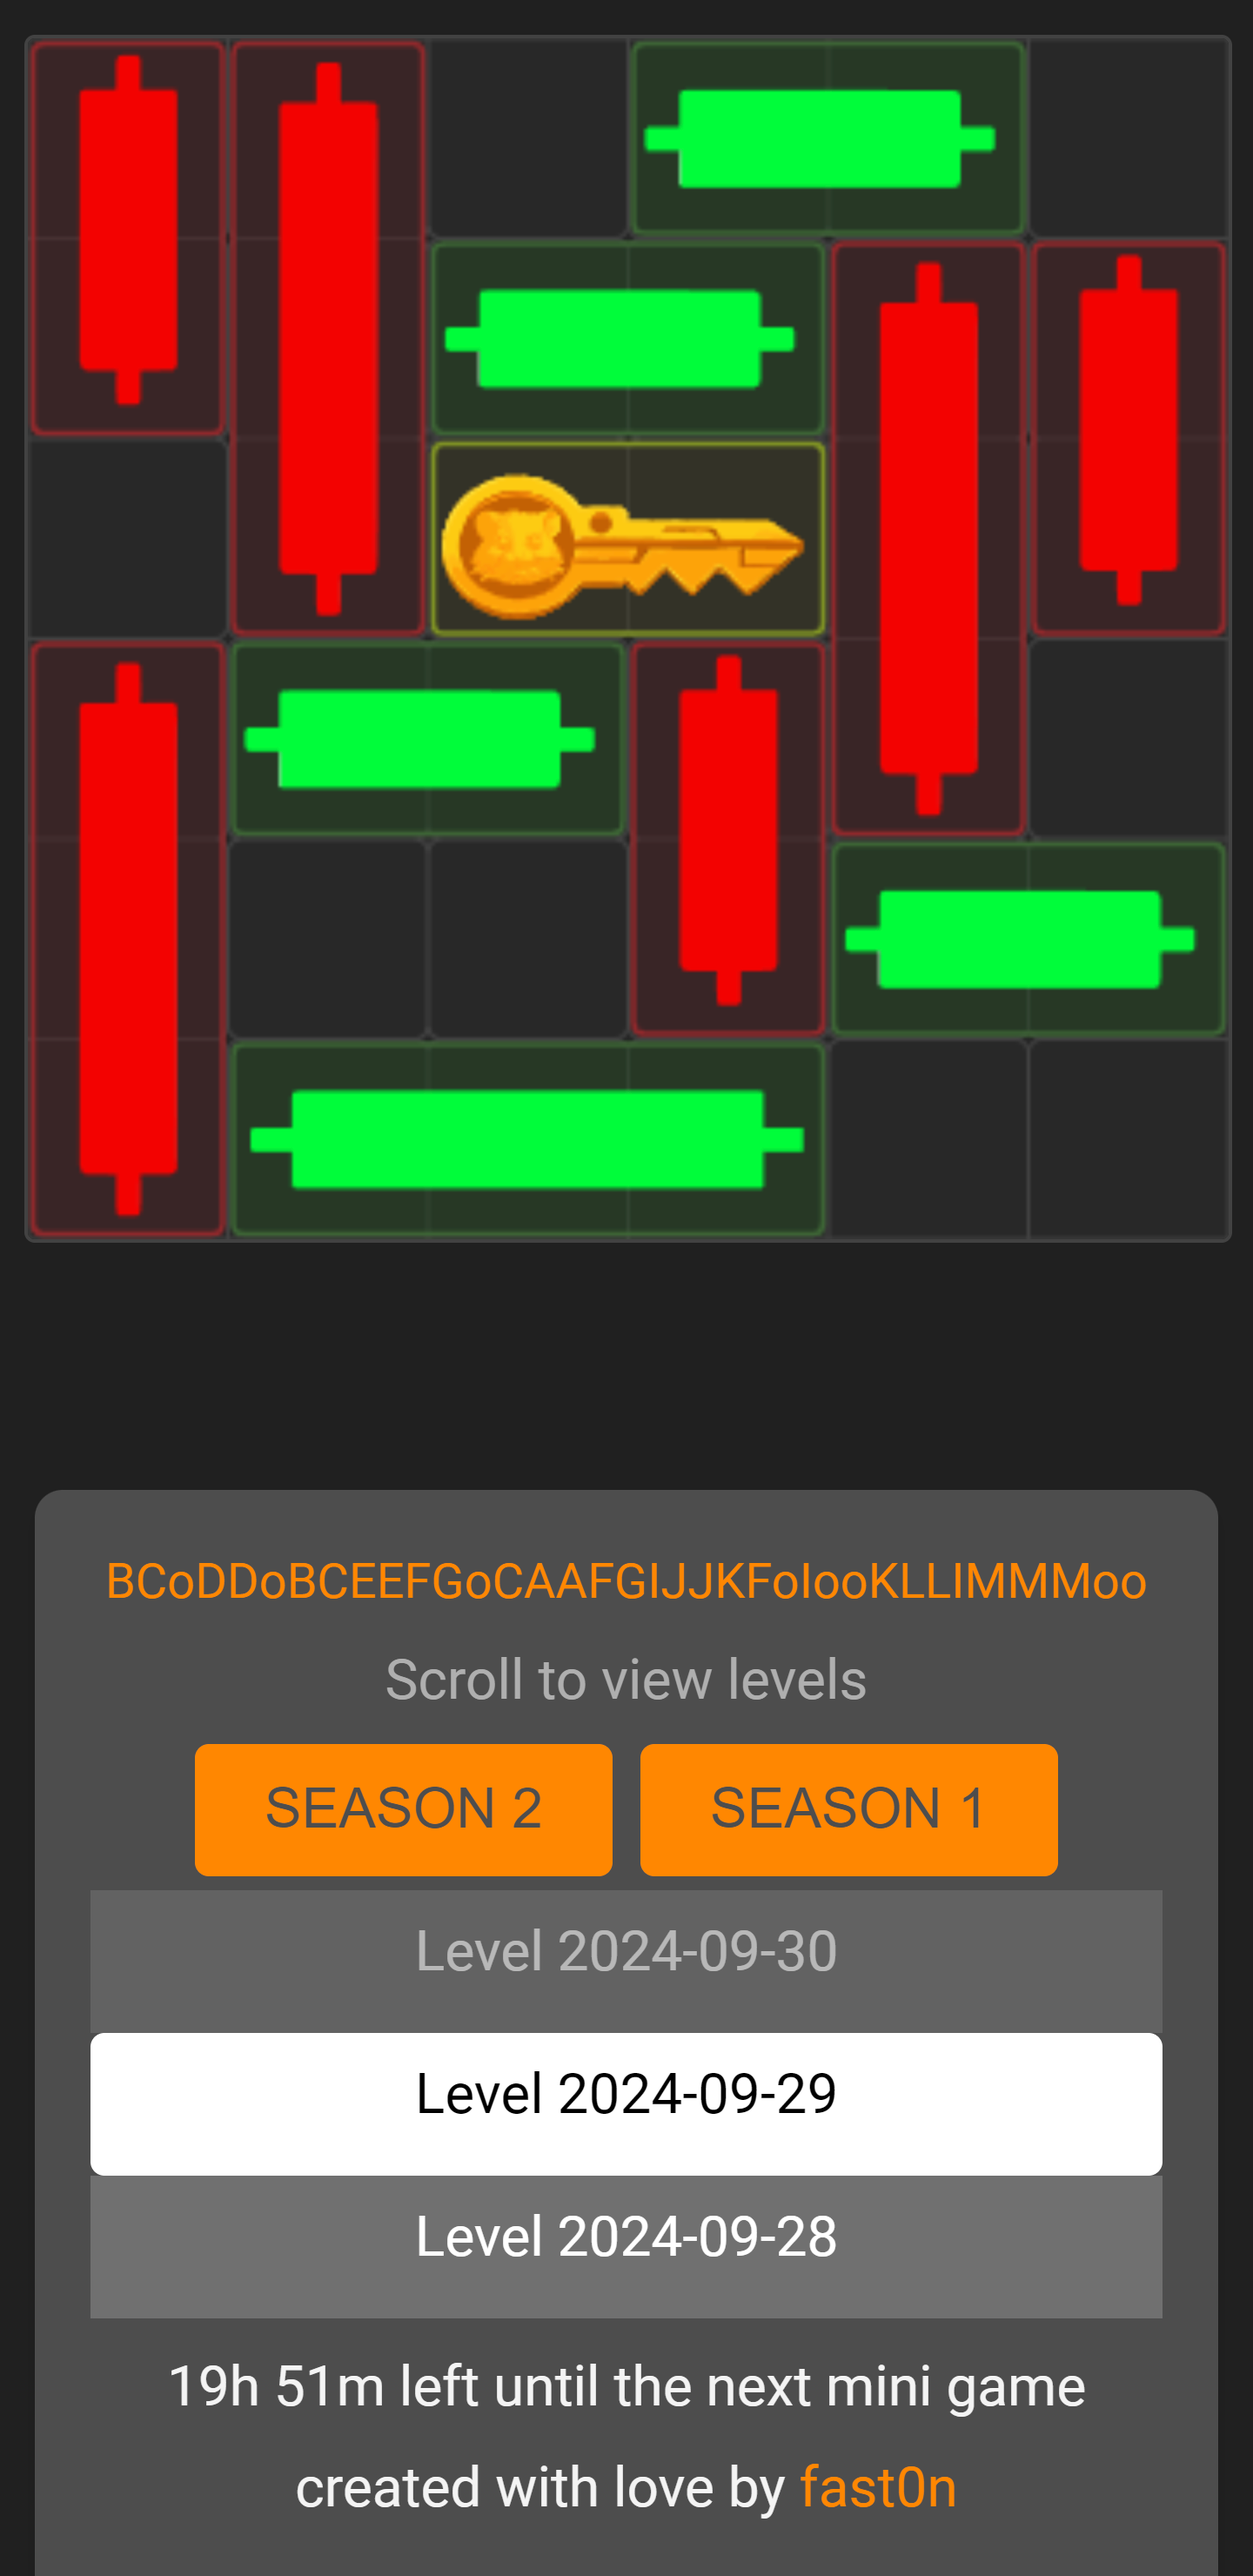
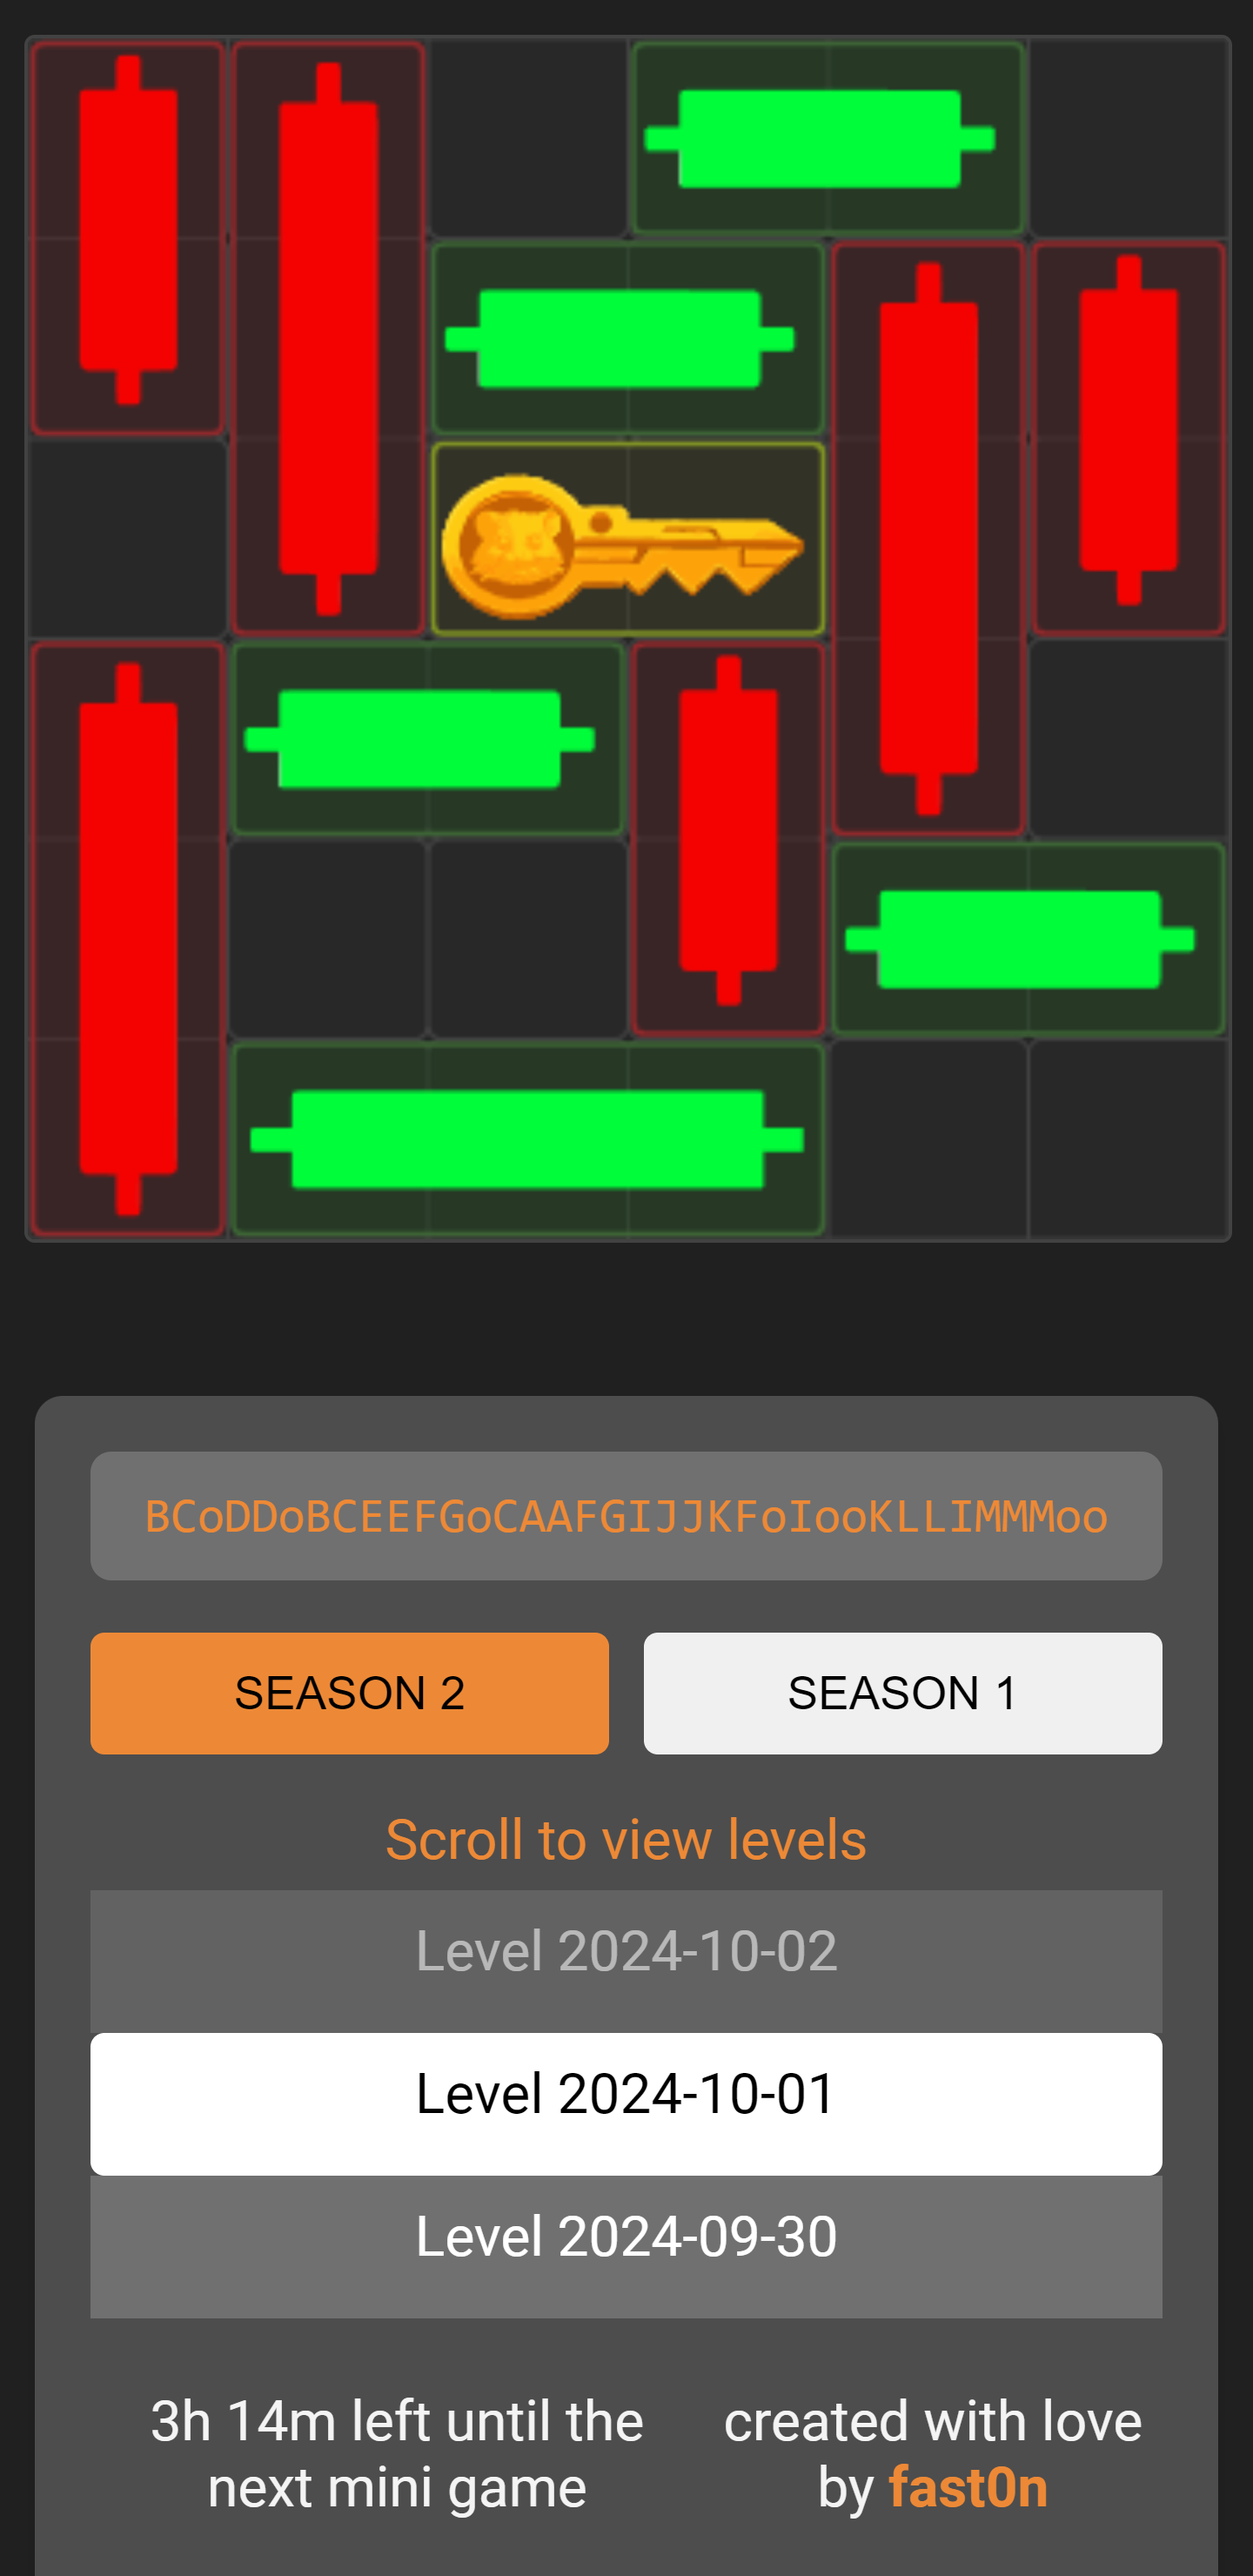
add level 2024-09-30

Changed region(s): [[0.0312, 0.5284, 0.9688, 0.777], [0.125, 0.9014, 0.9062, 0.9946], [0.5625, 0.8081, 0.6562, 0.8392]]

diff --git a/styles.css b/styles.css
@@ -13,6 +13,41 @@ body {
     margin: 0;
     overflow: hidden;  /*Nasconde la barra di scorrimento */
 }
+.code-display {
+    background-color: #707070;
+    padding: 10px;
+    border-radius: 6px;
+    font-family: monospace;
+    overflow-x: auto;
+    margin-bottom: 15px;
+}
+.footer {
+    margin-top: 20px;
+    font-size: 1em;
+    display: flex;
+    justify-content: space-between;
+    align-items: center;
+}
+
+.season-buttons {
+    display: flex;
+    gap: 10px;
+    margin-bottom: 15px;
+}
+.season-button {
+    flex: 1;
+    padding: 10px;
+    border: none;
+    border-radius: 4px;
+    cursor: pointer;
+    transition: background-color 0.3s;
+}
+.season-button.active {
+    background-color: #ed8936;
+    color: black;
+}
+
+
 
 br{
     
@@ -53,7 +88,7 @@ footer {
 }
 
 footer a {
-    color: #f80;
+    color: #ed8936;
     text-decoration: none;
 }
 
@@ -61,26 +96,10 @@ footer a:hover {
     text-decoration: underline;
 }
 
-button {
-    background-color: #f80; /* Colore di sfondo blu */
-    color: #4d4d4d; /* Colore del testo */
-    padding: 10px 20px; /* Spaziatura interna */
-    text-align: center; /* Allineamento del testo */
-    text-decoration: none; /* Rimuove la sottolineatura del testo */
-    display: inline-block; /* Consente di impostare larghezza e altezza */
-    font-size: 16px; /* Dimensione del testo */
-    margin: 4px 2px; /* Margine intorno al pulsante */
-    cursor: pointer; /* Mostra una mano quando si passa sopra */
-    border-radius: 4px; /* Angoli arrotondati */
-    border: none; /* Nessun bordo */
-}
-button:hover {
-    background-color: white; /* Colore di sfondo blu scuro al passaggio del mouse */
-}
 
 
 p{
-    color: #afafaf;
+    color: #ed8936;
     user-select: none;
     margin:0px;
     margin-bottom: 5px;

diff --git a/index.html b/index.html
@@ -22,14 +22,18 @@
     </div>
     <footer>
         <nav>
-            <a id='fspv' style="font-size: 14px;" href="" target="_blank"></a>
+            <div class="code-display">
+                <a id='fspv' style="font-size: 14px;" href="" target="_blank"></a>
+            </div>
             <br>
-            <p>Scroll to view levels</p>
 
             <!-- Buttons for Season Selection -->
-            <button id="season2Btn" onclick="showSeason('season2')">SEASON 2</button>
-            <button id="season1Btn" onclick="showSeason('season1')">SEASON 1</button>
-    
+            <div class="season-buttons">
+            <button id="season2Btn" onclick="showSeason('season2')" class="season-button active" >SEASON 2</button>
+            <button id="season1Btn" onclick="showSeason('season1')" class="season-button">SEASON 1</button>
+            </div>
+            <p>Scroll to view levels</p>
+
             <!-- SEASON 1 Levels -->
             <ul id="levelList" style="display: none;">
                 <li data-level="20240720">Level 2024-07-20</li>
@@ -45,10 +49,12 @@
             </ul>
     
             <br>
-            <div class="countdown" id="countdown"></div>
-            <br>
-            created with love by 
-            <a href="https://github.com/Fast0n/HamsterKombatMiniGame" target="_blank">fast0n</a>
+            <div class="footer">
+                <div><div class="countdown" id="countdown"></div></div>
+                <div>created with love by <strong> <a href="https://github.com/Fast0n/HamsterKombatMiniGame" target="_blank">fast0n</strong></a></div>
+            </div>
+
+            
         </nav>
     </footer>
     

diff --git a/script/script.js b/script/script.js
@@ -25,6 +25,11 @@ function showSeason(season) {
     document.getElementById('levelList').style.display = 'none';
     document.getElementById('levelList2').style.display = 'none';
     
+
+    const buttons = document.querySelectorAll('.season-button');
+    buttons.forEach(button => button.classList.remove('active'));
+    event.target.classList.add('active');
+
     // Show the selected season's list
     if (season === 'season1') {
         document.getElementById('levelList').style.display = 'block';
@@ -45,6 +50,10 @@ function resizeCanvas() {
 }
 
 function drawGame() {
+
+    
+
+
 
 
     // Pulire il canvas di buffer
@@ -466,6 +475,7 @@ function formatDate(date) {
 
 // Funzioni di inizializzazione e gestione eventi
 function init() {
+
     resizeCanvas();
     window.addEventListener('resize', resizeCanvas);
 
@@ -606,3 +616,6 @@ function init() {
 
 // Avvia l'inizializzazione
 init();
+
+
+

diff --git a/README.md b/README.md
@@ -3,13 +3,4 @@
 
 <kbd><img src='img/screen.png' alt='Hamster Kombat Mini Game' height='500'  /></kbd>
 
-## Tutorial Generate Level
-<a href="https://fast0n.github.io/HamsterKombatMiniGame/debug/">
-    <img height="500" src="img/generate_level.gif" alt="Problems" />
-</a>
-
-- Click on "Generate and copy"
-- Send me the result on [Telegram](https://t.me/+7BENd-9CdiJiZWU0).
-
-
 -----------------------------------------------------------------------------------
